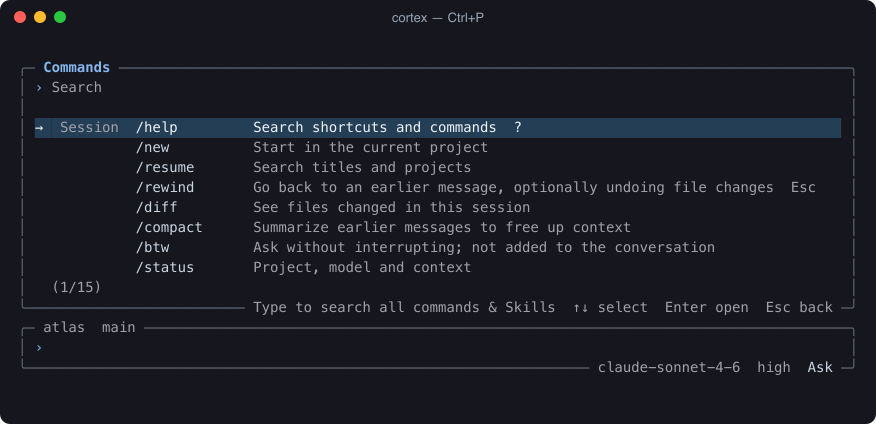
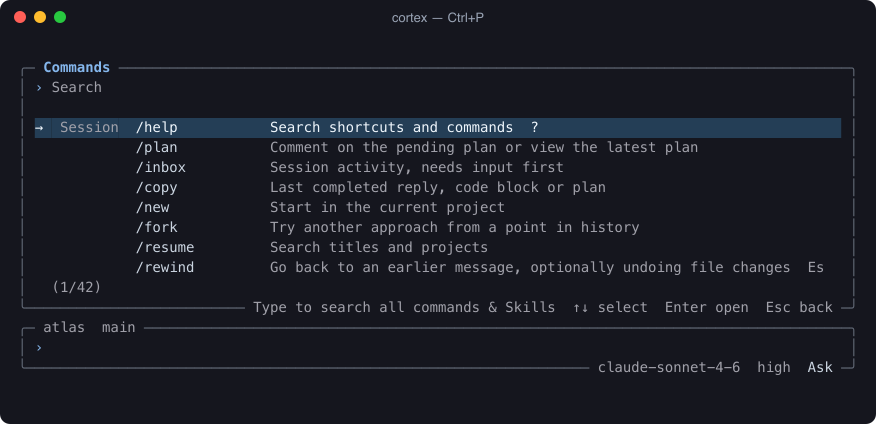
cortex-cli 0.1.70
- Restore the CX dot-matrix welcome mark on standard 24+ row terminals and updated screenshots
- Restore all slash commands and Ctrl+P command palette entries directly without hiding secondary items
- Restore /config connection access in command menus and add-or-change connection in /model

diff --git a/README.md b/README.md
@@ -32,8 +32,8 @@ First launch guides you through choosing a provider, model and API key. The inte
 | --- | --- |
 | Send a message / add a newline | Enter / Ctrl+J |
 | Cycle work mode (Ask → Plan → Auto-approve) | Shift+Tab; Bypass permissions lives in `/permissions` |
-| Switch model / thinking level | `/model`, or `/model opus high` directly / Ctrl+S |
-| Commands (common ones listed, type to find the rest) / reference a file | `/` or Ctrl+P / `@` |
+| Switch model / provider connection / thinking | `/model`, `/config` / Ctrl+S |
+| Commands / reference a file | `/` or Ctrl+P / `@` |
 | View agents / sessions needing attention | `/agents` / `/inbox` |
 | Stop the current run / reopen a pending request | Esc / `/pending` |
 | Resume a conversation / change settings | `/resume` / `/settings` |

diff --git a/README.zh-CN.md b/README.zh-CN.md
@@ -32,8 +32,8 @@ cortex
 | --- | --- |
 | 发送消息 / 换行 | Enter / Ctrl+J |
 | 轮换工作方式（按需确认 → 计划 → 自动执行） | Shift+Tab；完全放行在 `/permissions` |
-| 切换模型 / 思考强度 | `/model`，或直接 `/model opus high` / Ctrl+S |
-| 命令（常用的直接列出，其余输入即可搜到）/ 引用文件 | `/` 或 Ctrl+P / `@` |
+| 切换模型 / 供应商连接 / 思考强度 | `/model`、`/config` / Ctrl+S |
+| 命令 / 引用文件 | `/` 或 Ctrl+P / `@` |
 | 查看代理 / 待处理会话 | `/agents` / `/inbox` |
 | 停止当前运行 / 重开待确认请求 | Esc / `/pending` |
 | 恢复对话 / 修改设置 | `/resume` / `/settings` |
